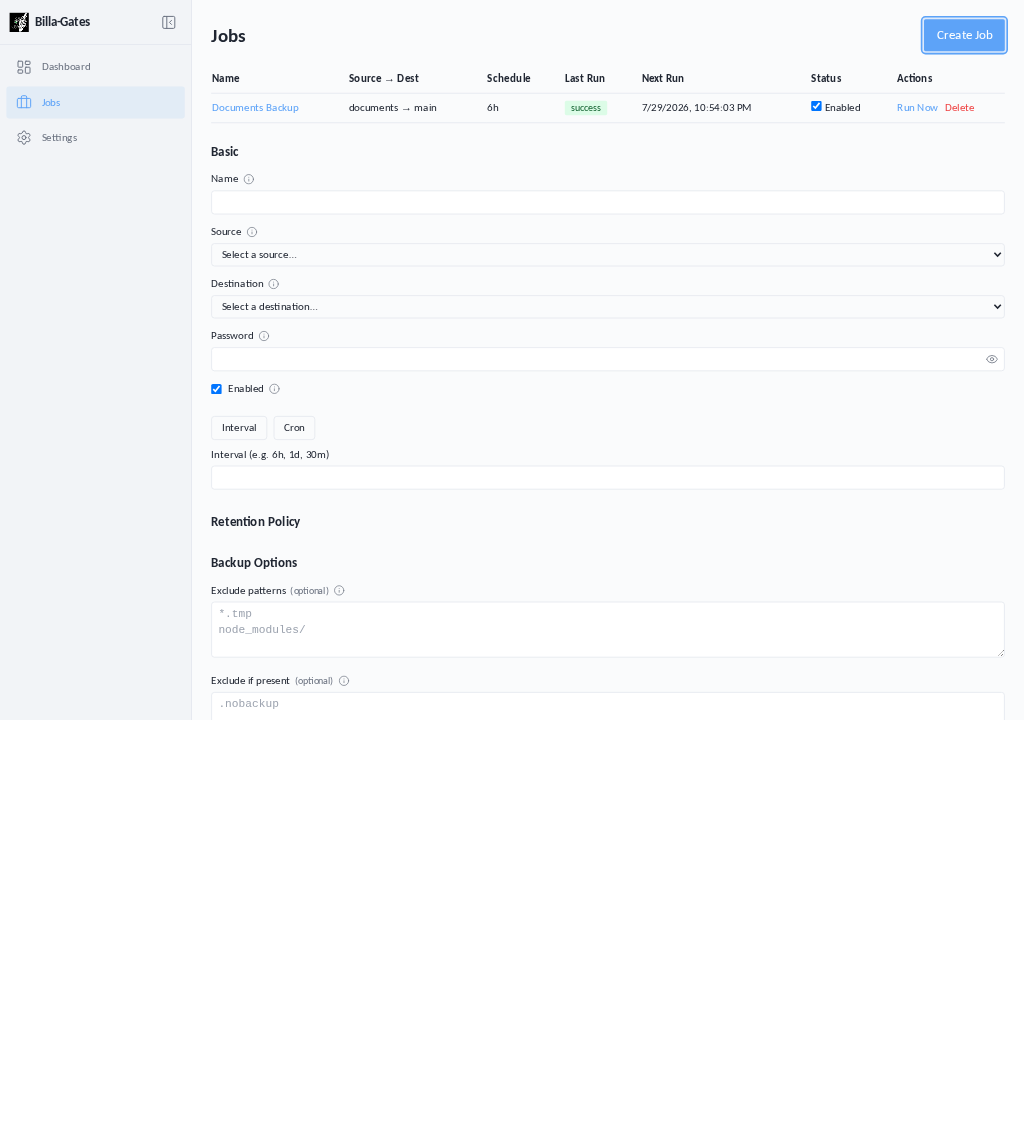
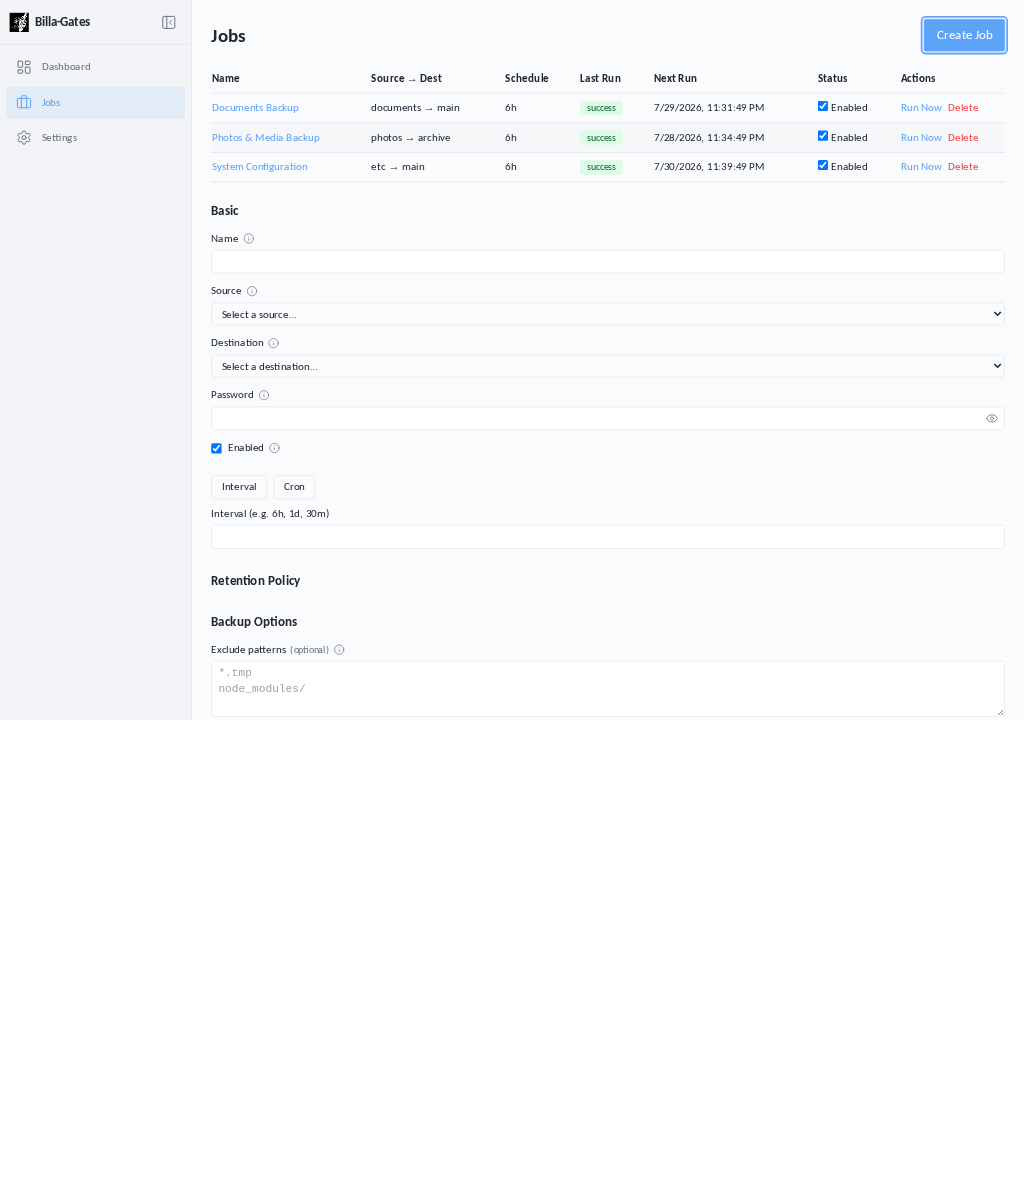
improve formatting of the upcomong runs section

diff --git a/frontend/src/pages/Dashboard.test.tsx b/frontend/src/pages/Dashboard.test.tsx
@@ -370,6 +370,22 @@ describe('Dashboard', () => {
       })
     })
 
+    it('applies alternate row coloring to upcoming runs rows for improved visual clarity', async () => {
+      vi.mocked(api.listJobs).mockResolvedValue([
+        makeJob({ id: 'job-1', name: 'Docs', next_run_time: '2026-08-04T03:00:00Z' }),
+        makeJob({ id: 'job-2', name: 'FamilyMedia', next_run_time: '2026-07-29T03:00:00Z' }),
+      ])
+      renderWithProviders(<Dashboard />)
+      await waitFor(() => {
+        const upcomingSection = screen.getByRole('heading', {
+          name: /upcoming runs/i,
+        }).parentElement
+        expect(upcomingSection).toBeInTheDocument()
+        const rowsContainer = upcomingSection!.querySelector('div')
+        expect(rowsContainer?.className).toContain('[&>div:nth-child(even)]:bg-muted/40')
+      })
+    })
+
     it('displays relative time detail in (In X days, Y hours) format', async () => {
       const mockNow = new Date('2026-07-28T03:00:00Z').getTime()
       const dateSpy = vi.spyOn(Date, 'now').mockReturnValue(mockNow)

diff --git a/frontend/src/screenshots/pages.test.tsx b/frontend/src/screenshots/pages.test.tsx
@@ -262,10 +262,28 @@ const health: HealthStatus = {
   db_ok: true,
 }
 
+const job2: BackupJob = {
+  ...job,
+  id: 'job-2',
+  name: 'Photos & Media Backup',
+  source_label: 'photos',
+  destination_label: 'archive',
+  next_run_time: new Date(Date.now() + (2 * 3600 + 300) * 1000).toISOString(),
+}
+
+const job3: BackupJob = {
+  ...job,
+  id: 'job-3',
+  name: 'System Configuration',
+  source_label: 'etc',
+  destination_label: 'main',
+  next_run_time: new Date(Date.now() + (50 * 3600 + 600) * 1000).toISOString(),
+}
+
 // ── Mock setup ───────────────────────────────────────────────────────────────
 
 beforeEach(() => {
-  vi.mocked(api.listJobs).mockResolvedValue([job])
+  vi.mocked(api.listJobs).mockResolvedValue([job, job2, job3])
   vi.mocked(api.getJob).mockResolvedValue(job)
   vi.mocked(api.getJobRuns).mockResolvedValue([run])
   vi.mocked(api.getJobSnapshots).mockResolvedValue([snapshot])

diff --git a/frontend/src/pages/Dashboard.tsx b/frontend/src/pages/Dashboard.tsx
@@ -119,9 +119,12 @@ export default function Dashboard() {
       {sortedJobs.length > 0 && (
         <div>
           <h2 className="text-lg font-semibold mb-2">Upcoming Runs</h2>
-          <div className="space-y-1">
+          <div className="[&>div:nth-child(even)]:bg-muted/40">
             {sortedJobs.map((job) => (
-              <div key={job.id} className="flex justify-between text-sm">
+              <div
+                key={job.id}
+                className="flex justify-between text-sm py-2 px-3 border-b hover:bg-muted/60"
+              >
                 <span>{job.name}</span>
                 <span>{formatNextRun(job.next_run_time)}</span>
               </div>
